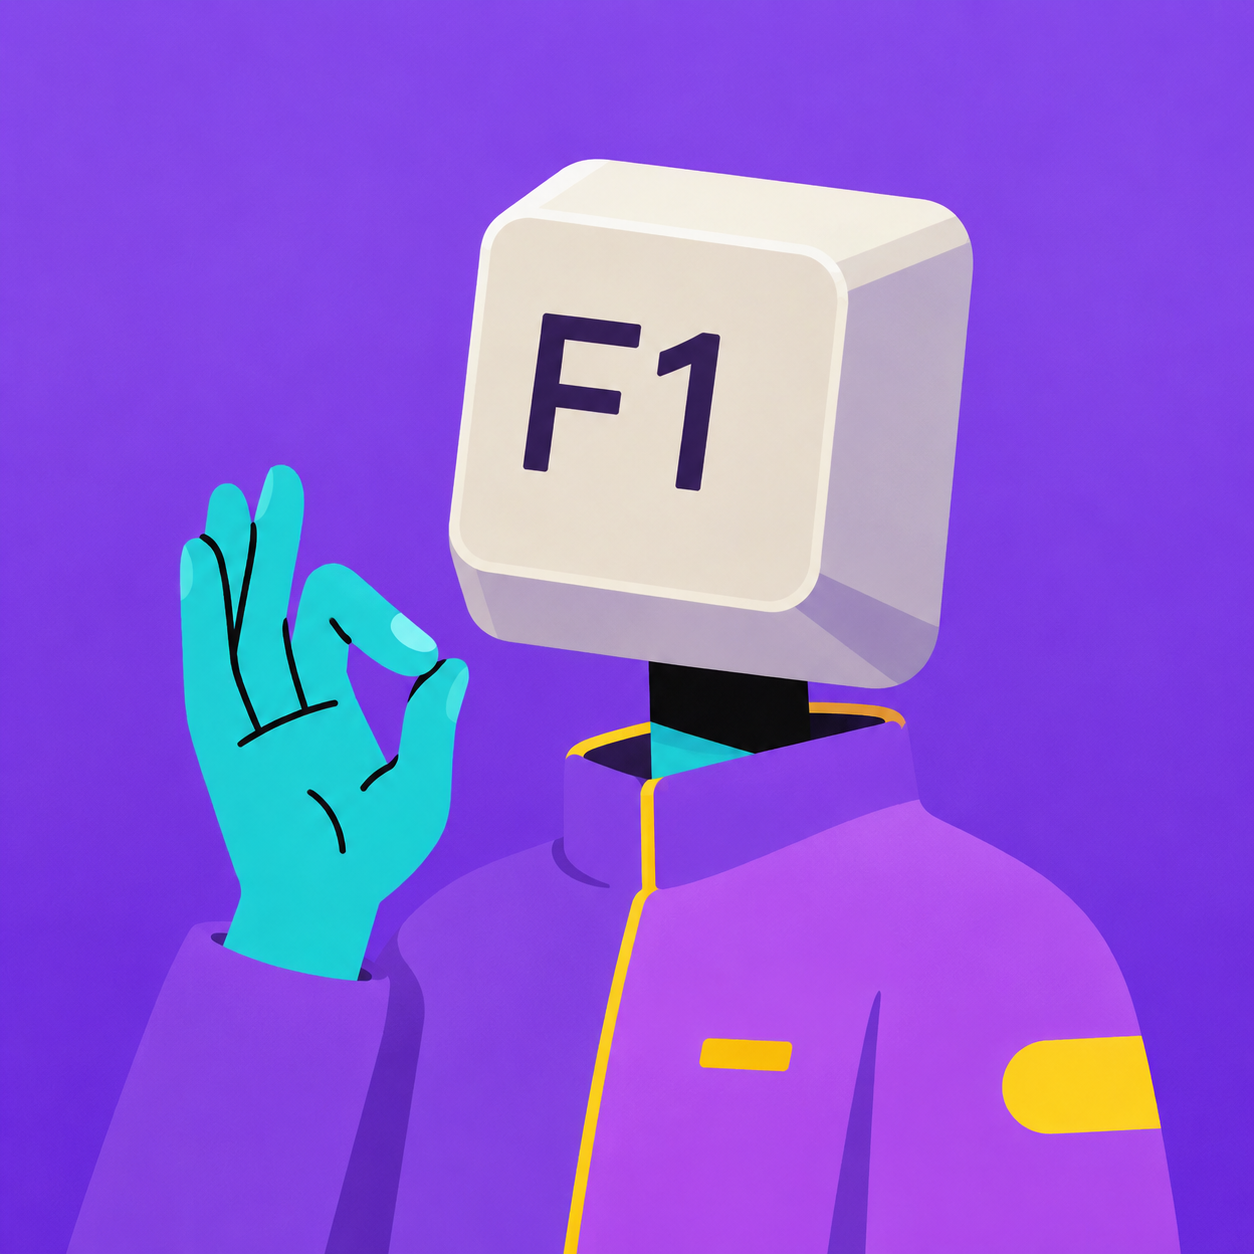
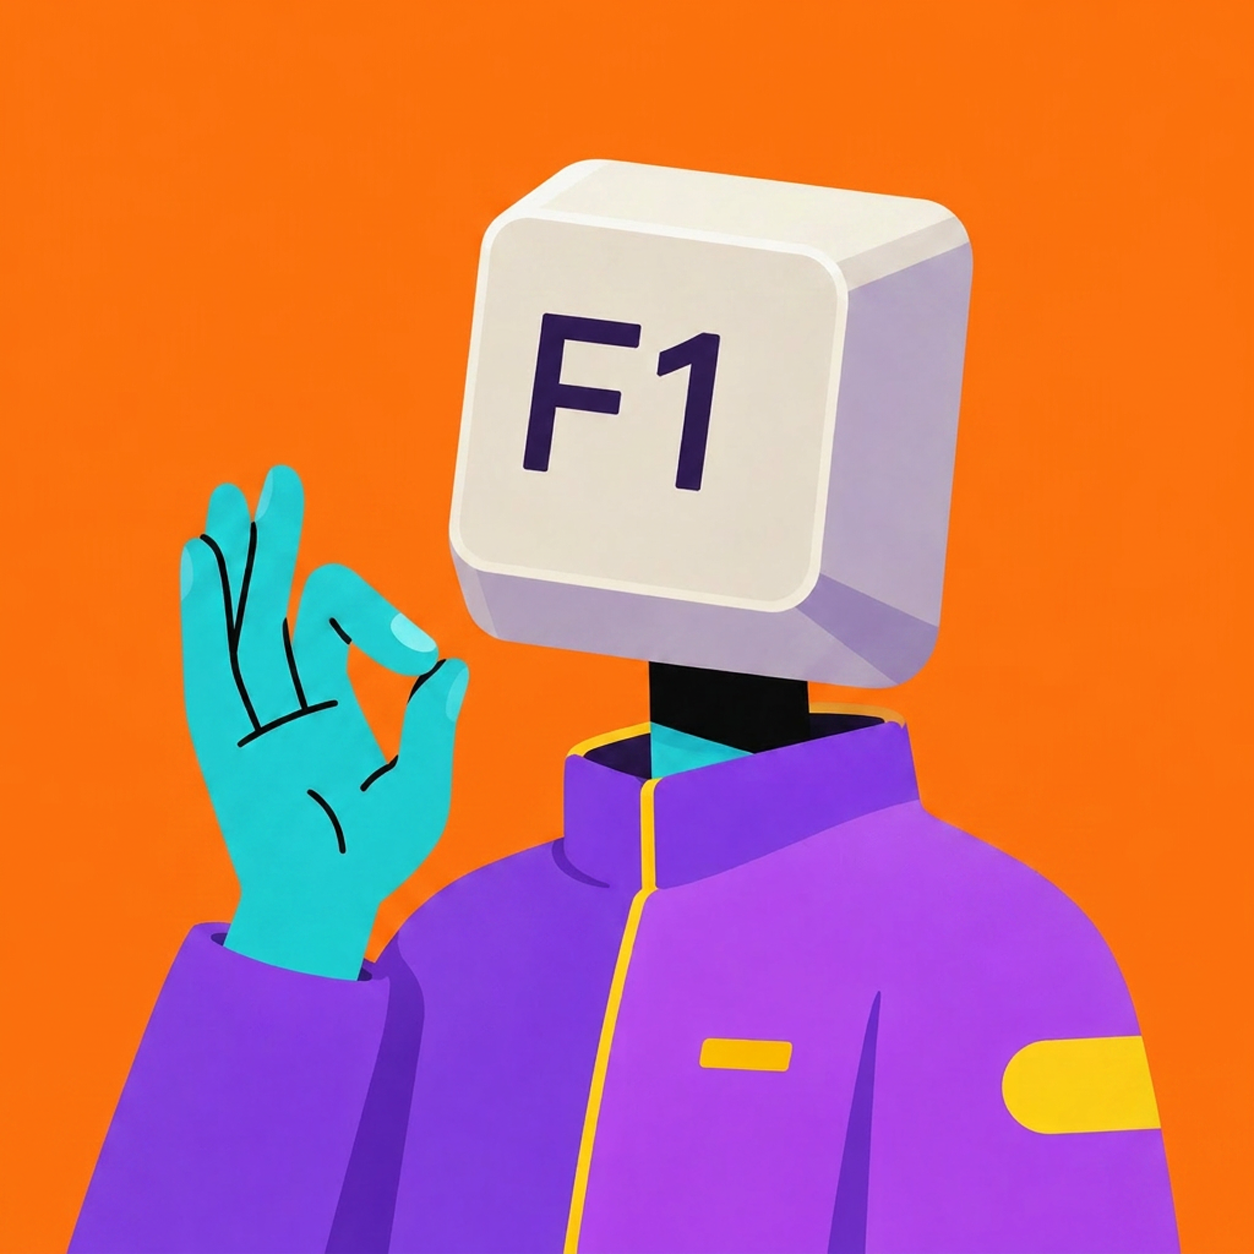
Update Horoscope (v5), Technology B, and UI panel images (cache-busted srcs)

diff --git a/index.html b/index.html
@@ -59,7 +59,7 @@
       <p class="section-lede">All three possibilities at home in the product — the scouts as your personal squad across News, Finance, Sports and Weather.</p>
     </div>
     <figure class="product-shot product-full reveal">
-      <img src="assets/product/full-styles.png" alt="The Yahoo Scouts — all styles — inside the Yahoo home experience" loading="lazy" />
+      <img src="assets/product/full-styles.png?2" alt="The Yahoo Scouts — all styles — inside the Yahoo home experience" loading="lazy" />
     </figure>
   </section>
 
@@ -86,7 +86,7 @@
       <figure class="scout-card reveal"><div class="scout-img"><img src="assets/scouts/technology-a.png" alt="Technology Scout — Humanoid" loading="lazy" /></div><figcaption><div class="cap-row"><span class="scout-name">Technology</span><span class="scout-tag tag-humanoid">Humanoid</span></div><p class="scout-spirit">Quietly clever — the tinkerer making tomorrow feel effortless and fun.</p></figcaption></figure>
       <figure class="scout-card reveal"><div class="scout-img"><img src="assets/scouts/weather-a.png" alt="Weather Scout — Humanoid" loading="lazy" /></div><figcaption><div class="cap-row"><span class="scout-name">Weather</span><span class="scout-tag tag-humanoid">Humanoid</span></div><p class="scout-spirit">Reads the sky's every mood — sunny, stormy, always game.</p></figcaption></figure>
       <figure class="scout-card reveal"><div class="scout-img"><img src="assets/scouts/books-a.png" alt="Books Scout — Humanoid" loading="lazy" /></div><figcaption><div class="cap-row"><span class="scout-name">Books</span><span class="scout-tag tag-humanoid">Humanoid</span></div><p class="scout-spirit">A head full of stories — always mid-chapter, always ready for one more.</p></figcaption></figure>
-      <figure class="scout-card reveal"><div class="scout-img"><img src="assets/scouts/horoscope-a.png" alt="Horoscope Scout — Humanoid" loading="lazy" /></div><figcaption><div class="cap-row"><span class="scout-name">Horoscope</span><span class="scout-tag tag-humanoid">Humanoid</span></div><p class="scout-spirit">Head in the stars — reads the room and the cosmos, always sensing what's next.</p></figcaption></figure>
+      <figure class="scout-card reveal"><div class="scout-img"><img src="assets/scouts/horoscope-a.png?2" alt="Horoscope Scout — Humanoid" loading="lazy" /></div><figcaption><div class="cap-row"><span class="scout-name">Horoscope</span><span class="scout-tag tag-humanoid">Humanoid</span></div><p class="scout-spirit">Head in the stars — reads the room and the cosmos, always sensing what's next.</p></figcaption></figure>
     </div>
 
     <!-- Possibility 2 — Iconic -->
@@ -97,7 +97,7 @@
     <div class="gallery">
       <figure class="scout-card reveal"><div class="scout-img"><img src="assets/scouts/science-b.png" alt="Science Scout — Iconic" loading="lazy" /></div><figcaption><div class="cap-row"><span class="scout-name">Science</span><span class="scout-tag tag-iconic">Iconic</span></div><p class="scout-spirit">Endlessly curious — turns every question into a small, joyful experiment.</p></figcaption></figure>
       <figure class="scout-card reveal"><div class="scout-img"><img src="assets/scouts/sports-b.png" alt="Sports Scout — Iconic" loading="lazy" /></div><figcaption><div class="cap-row"><span class="scout-name">Sports</span><span class="scout-tag tag-iconic">Iconic</span></div><p class="scout-spirit">All energy and hustle — the teammate who never stops moving.</p></figcaption></figure>
-      <figure class="scout-card reveal"><div class="scout-img"><img src="assets/scouts/technology-b.png" alt="Technology Scout — Iconic" loading="lazy" /></div><figcaption><div class="cap-row"><span class="scout-name">Technology</span><span class="scout-tag tag-iconic">Iconic</span></div><p class="scout-spirit">Quietly clever — the tinkerer making tomorrow feel effortless and fun.</p></figcaption></figure>
+      <figure class="scout-card reveal"><div class="scout-img"><img src="assets/scouts/technology-b.png?2" alt="Technology Scout — Iconic" loading="lazy" /></div><figcaption><div class="cap-row"><span class="scout-name">Technology</span><span class="scout-tag tag-iconic">Iconic</span></div><p class="scout-spirit">Quietly clever — the tinkerer making tomorrow feel effortless and fun.</p></figcaption></figure>
       <figure class="scout-card reveal"><div class="scout-img"><img src="assets/scouts/weather-b.png" alt="Weather Scout — Iconic" loading="lazy" /></div><figcaption><div class="cap-row"><span class="scout-name">Weather</span><span class="scout-tag tag-iconic">Iconic</span></div><p class="scout-spirit">Reads the sky's every mood — sunny, stormy, always game.</p></figcaption></figure>
       <figure class="scout-card reveal"><div class="scout-img"><img src="assets/scouts/gaming-b.png" alt="Gaming Scout — Iconic" loading="lazy" /></div><figcaption><div class="cap-row"><span class="scout-name">Gaming</span><span class="scout-tag tag-iconic">Iconic</span></div><p class="scout-spirit">Always one more level — quick thumbs, quicker grin, never quite ready to log off.</p></figcaption></figure>
     </div>